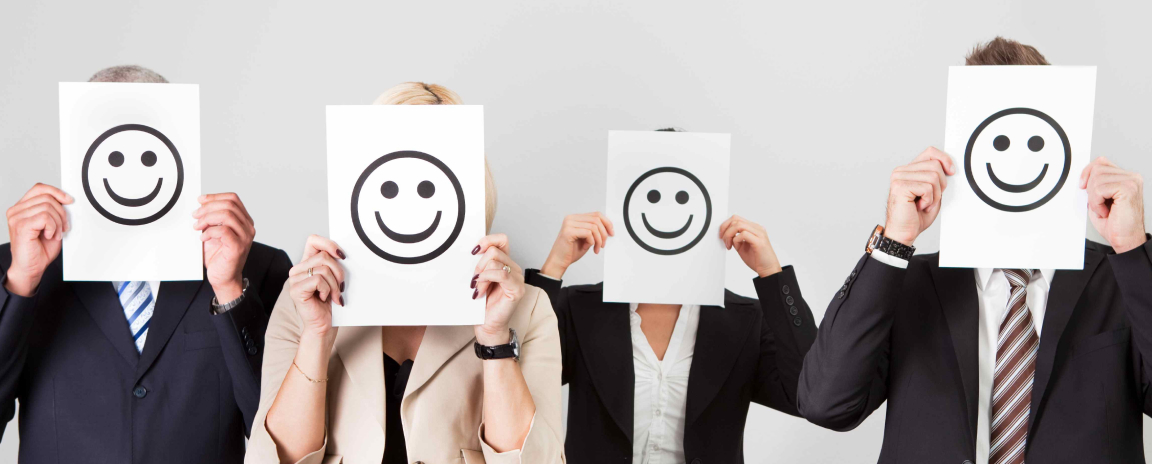
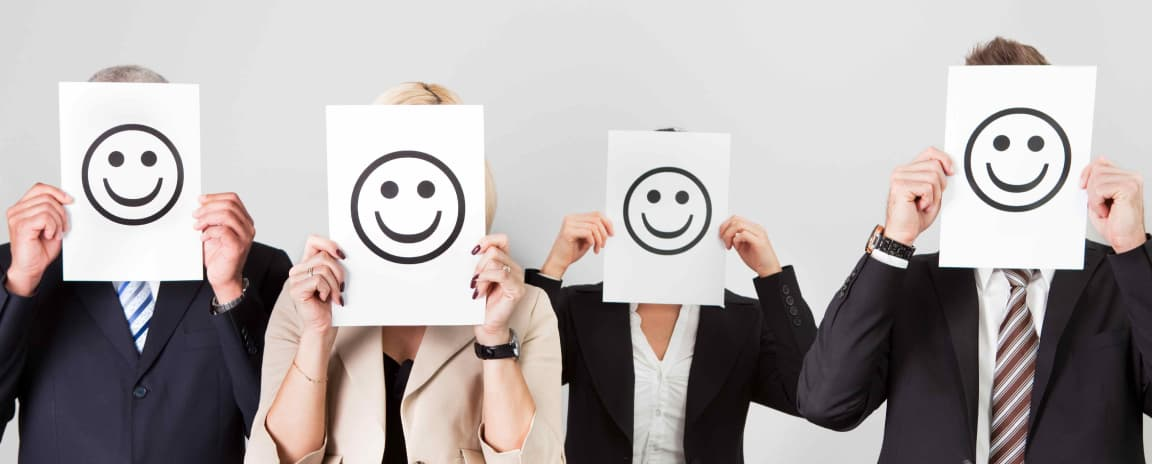
images optimization

Changed region(s): [[0.8438, 0.6638, 0.9062, 0.9957], [0.875, 0.6034, 0.9062, 0.6336], [0.75, 0.5129, 0.7812, 0.5431]]

diff --git a/public/css/style.min.css b/public/css/style.min.css
@@ -548,23 +548,23 @@ input[type=search]::-webkit-search-results-decoration {
 
 .info-section {
   background-color: #ebebeb;
-  background-image: url("/images/info-section-mobile.png");
+  background-image: url("/images/info-section-mobile.jpg");
   background-repeat: no-repeat;
   background-size: cover;
 }
 @media (min-width: 744px) {
   .info-section {
-    background-image: url("/images/info-section-tablet.png");
+    background-image: url("/images/info-section-tablet.jpg");
   }
 }
 @media (min-width: 1280px) {
   .info-section {
-    background-image: url("/images/info-section-desktop.png");
+    background-image: url("/images/info-section-desktop.jpg");
   }
 }
 @media (min-width: 1920px) {
   .info-section {
-    background-image: url("/images/info-section-fullhd.png");
+    background-image: url("/images/info-section-fullhd.jpg");
   }
 }
 

diff --git a/resources/sass/blocks/_info-section.scss b/resources/sass/blocks/_info-section.scss
@@ -1,19 +1,19 @@
 .info-section {
   background-color: darken($basic-white, 8);
-  background-image: url("/images/info-section-mobile.png");
+  background-image: url("/images/info-section-mobile.jpg");
   background-repeat: no-repeat;
   background-size: cover;
 
   @include tablet {
-    background-image: url("/images/info-section-tablet.png");
+    background-image: url("/images/info-section-tablet.jpg");
   }
 
   @include desktop {
-    background-image: url("/images/info-section-desktop.png");
+    background-image: url("/images/info-section-desktop.jpg");
   }
 
   @include fullhd {
-    background-image: url("/images/info-section-fullhd.png");
+    background-image: url("/images/info-section-fullhd.jpg");
   }
 }
 
